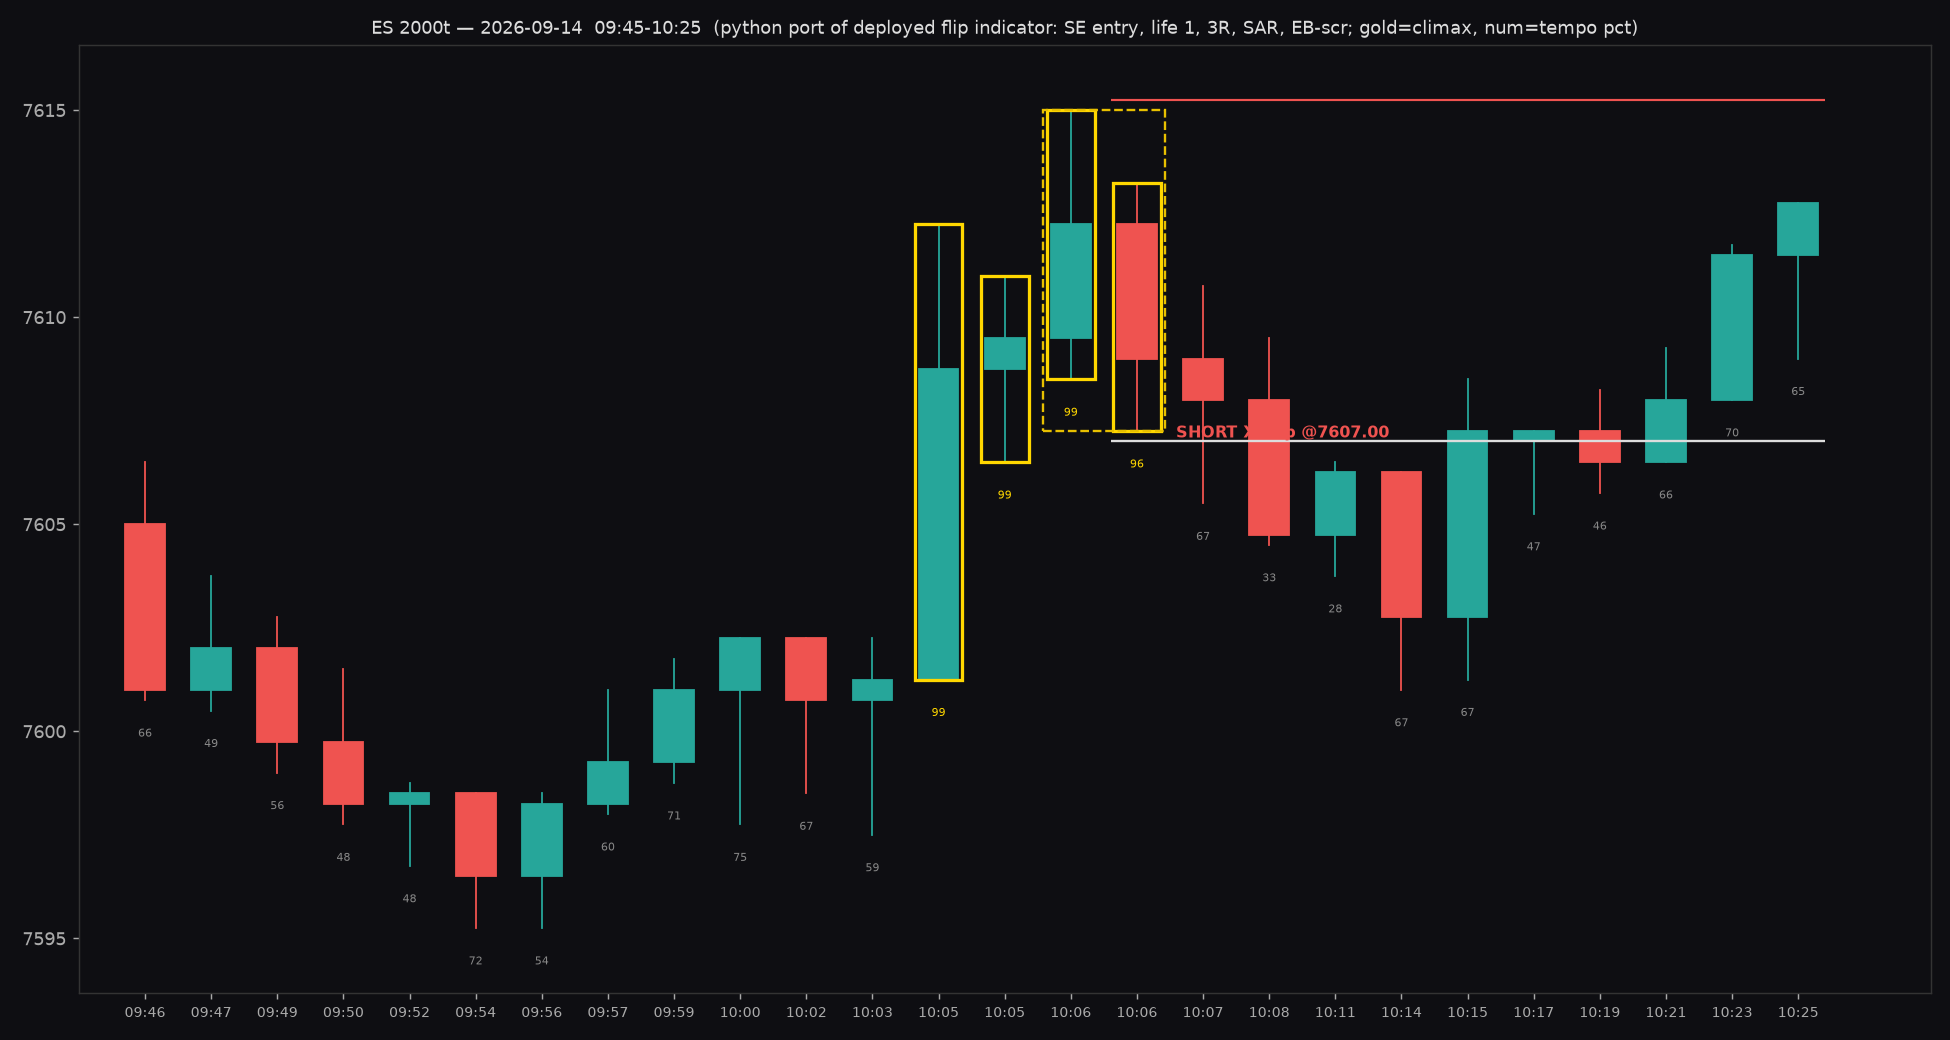
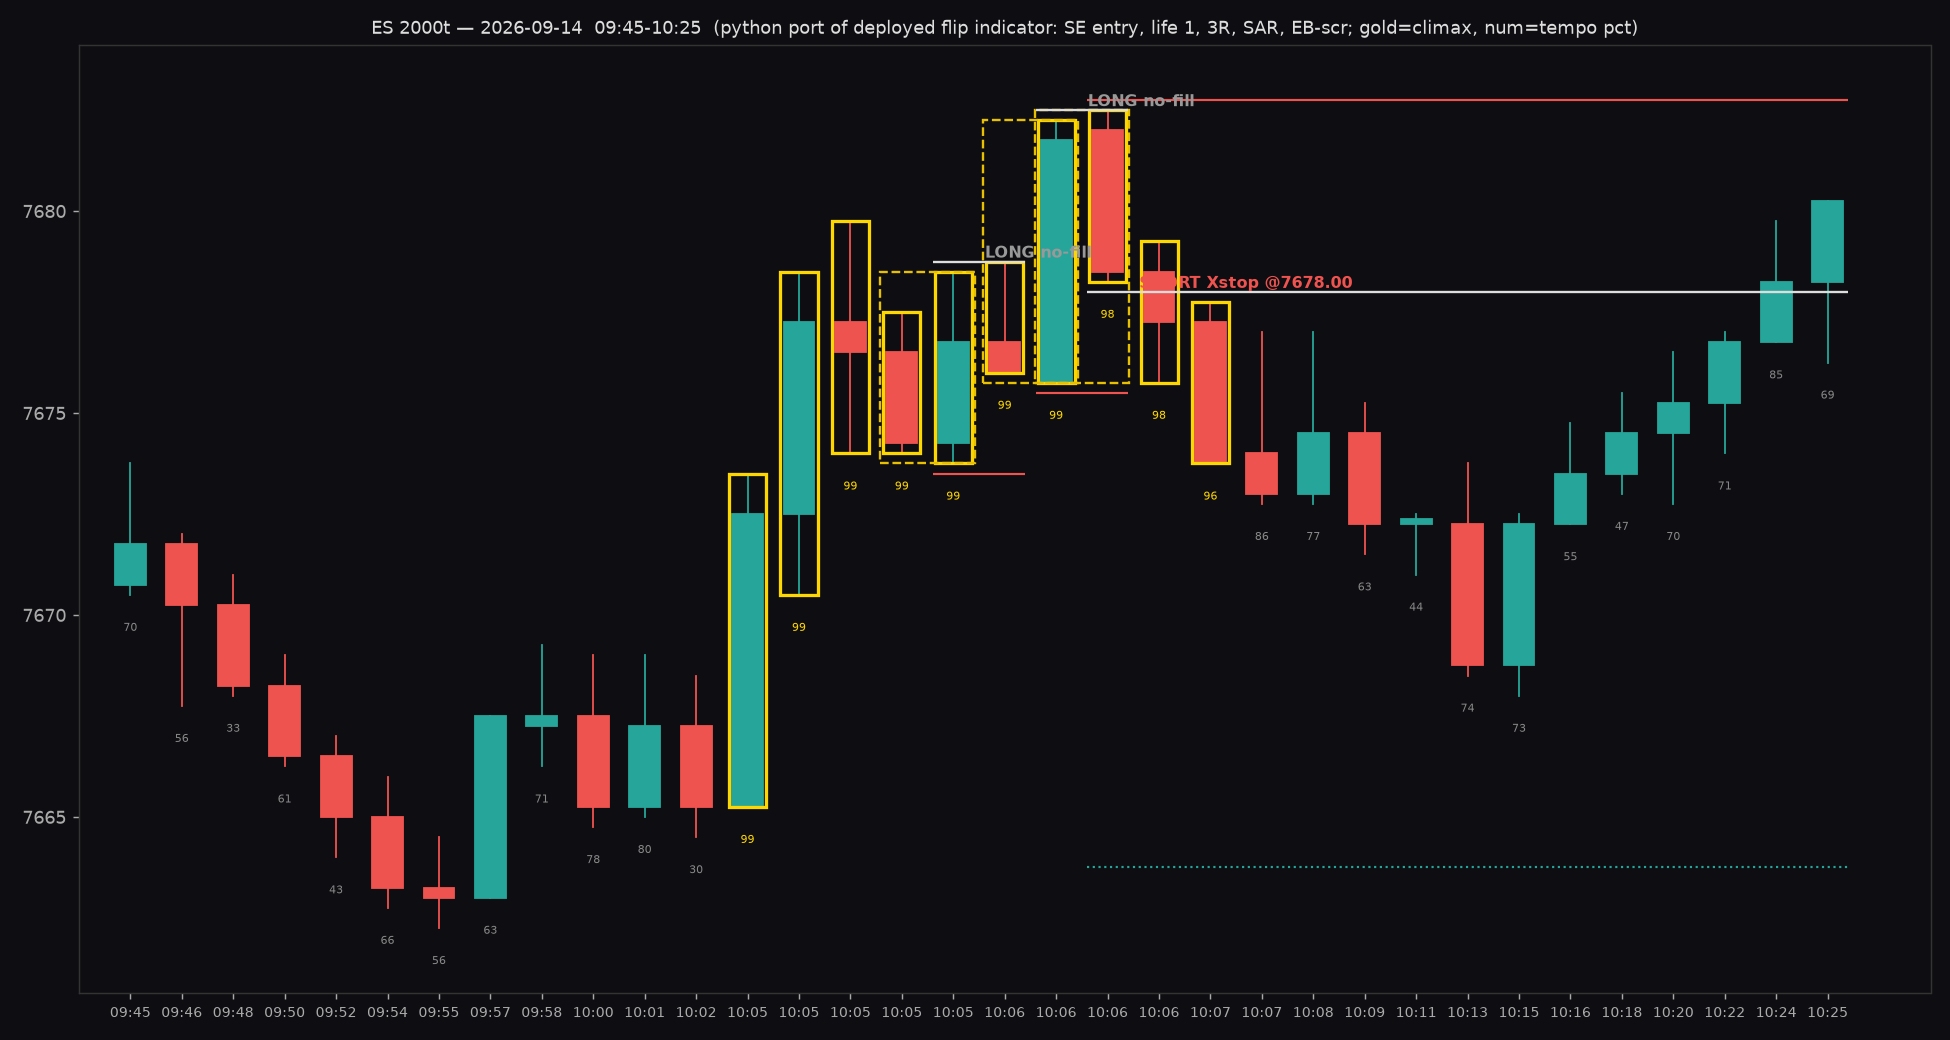
S119-tempo: render 09-14 at RAW 12-26 prices (+67.75 back-adj offset). VERIFIED trove 09-14 = ES 12-26 (vol 694,640 = roll re-ingest exactly); prices were back-adjusted -67.75 (my 7607 = raw 7674.75). Contract is correct; short-vs-live-long is NOT the contract - it's climax calibration/trove tick-co

diff --git a/tempo/scripts/flip_chart_render.py b/tempo/scripts/flip_chart_render.py
@@ -116,11 +116,15 @@ def main():
     date = sys.argv[1] if len(sys.argv) > 1 else "2026-09-14"
     t0 = sys.argv[2] if len(sys.argv) > 2 else "09:45"
     t1 = sys.argv[3] if len(sys.argv) > 3 else "10:25"
+    # price offset to display RAW contract prices (trove is back-adjusted continuous;
+    # ESZ6 spliced -67.75 vs the ESU6 anchor, so raw 12-26 = continuous + 67.75)
+    off = float(sys.argv[4]) if len(sys.argv) > 4 else 0.0
     df = pd.read_parquet(ENG)
     d = df[df["date"] == date].sort_values("bar").reset_index(drop=True)
     d["hhmm"] = pd.to_datetime(d["start"]).dt.strftime("%H:%M:%S")
-    o = d["open"].to_numpy(); h = d["high"].to_numpy(); l = d["low"].to_numpy()
-    c = d["close"].to_numpy(); cx = d["climax"].to_numpy().astype(bool)
+    o = d["open"].to_numpy() + off; h = d["high"].to_numpy() + off
+    l = d["low"].to_numpy() + off; c = d["close"].to_numpy() + off
+    cx = d["climax"].to_numpy().astype(bool)
     tp = d["tpct"].to_numpy()
     sigs = sim(o, h, l, c, cx, len(d))
 
